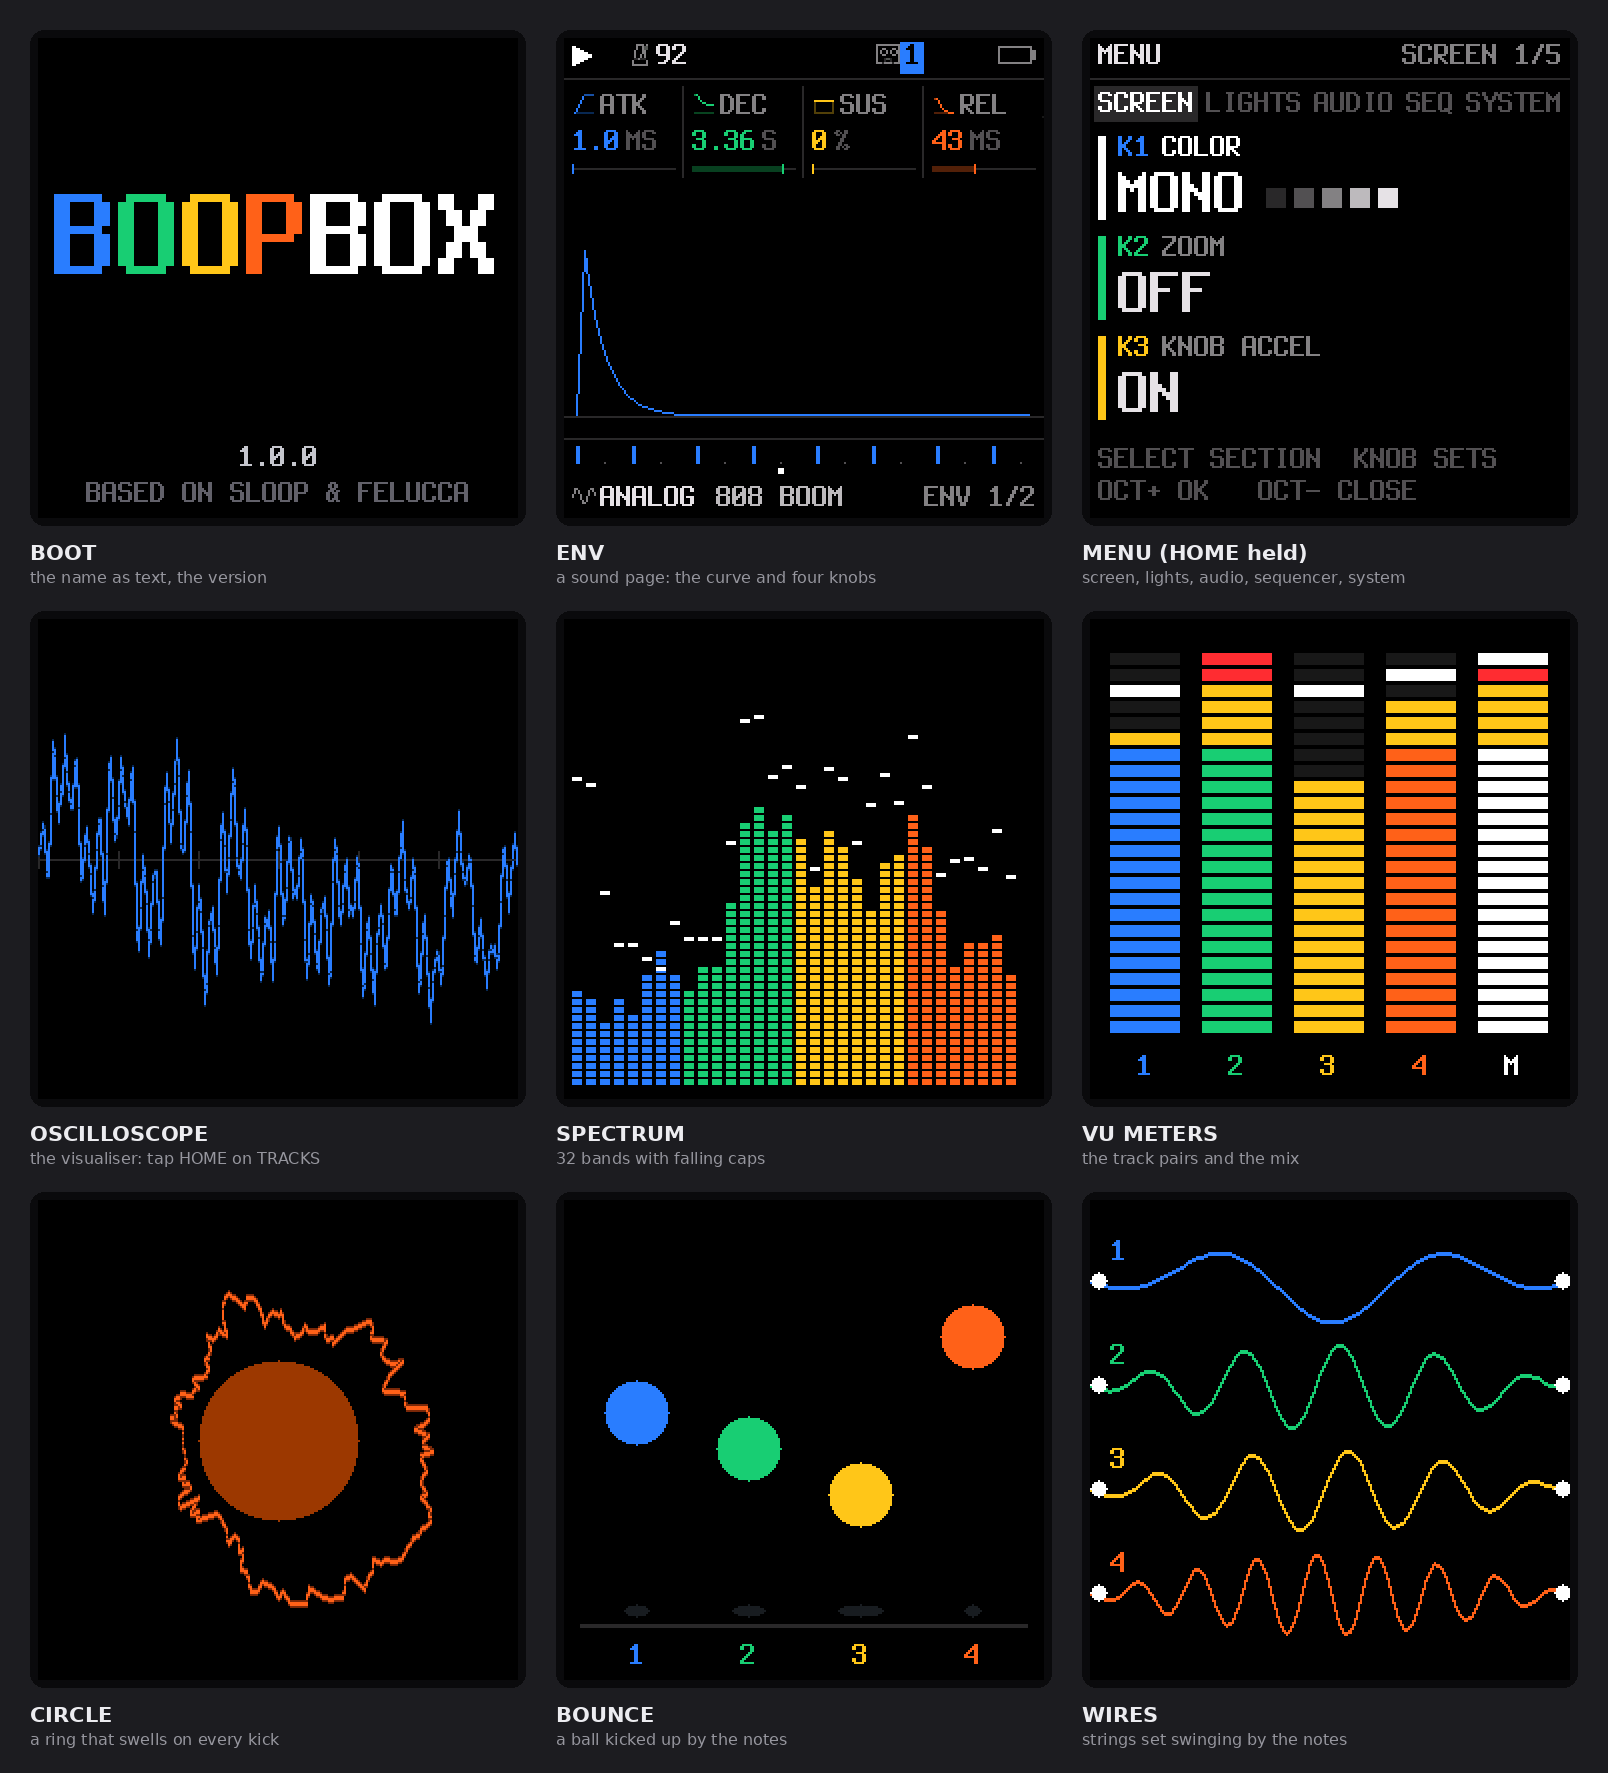
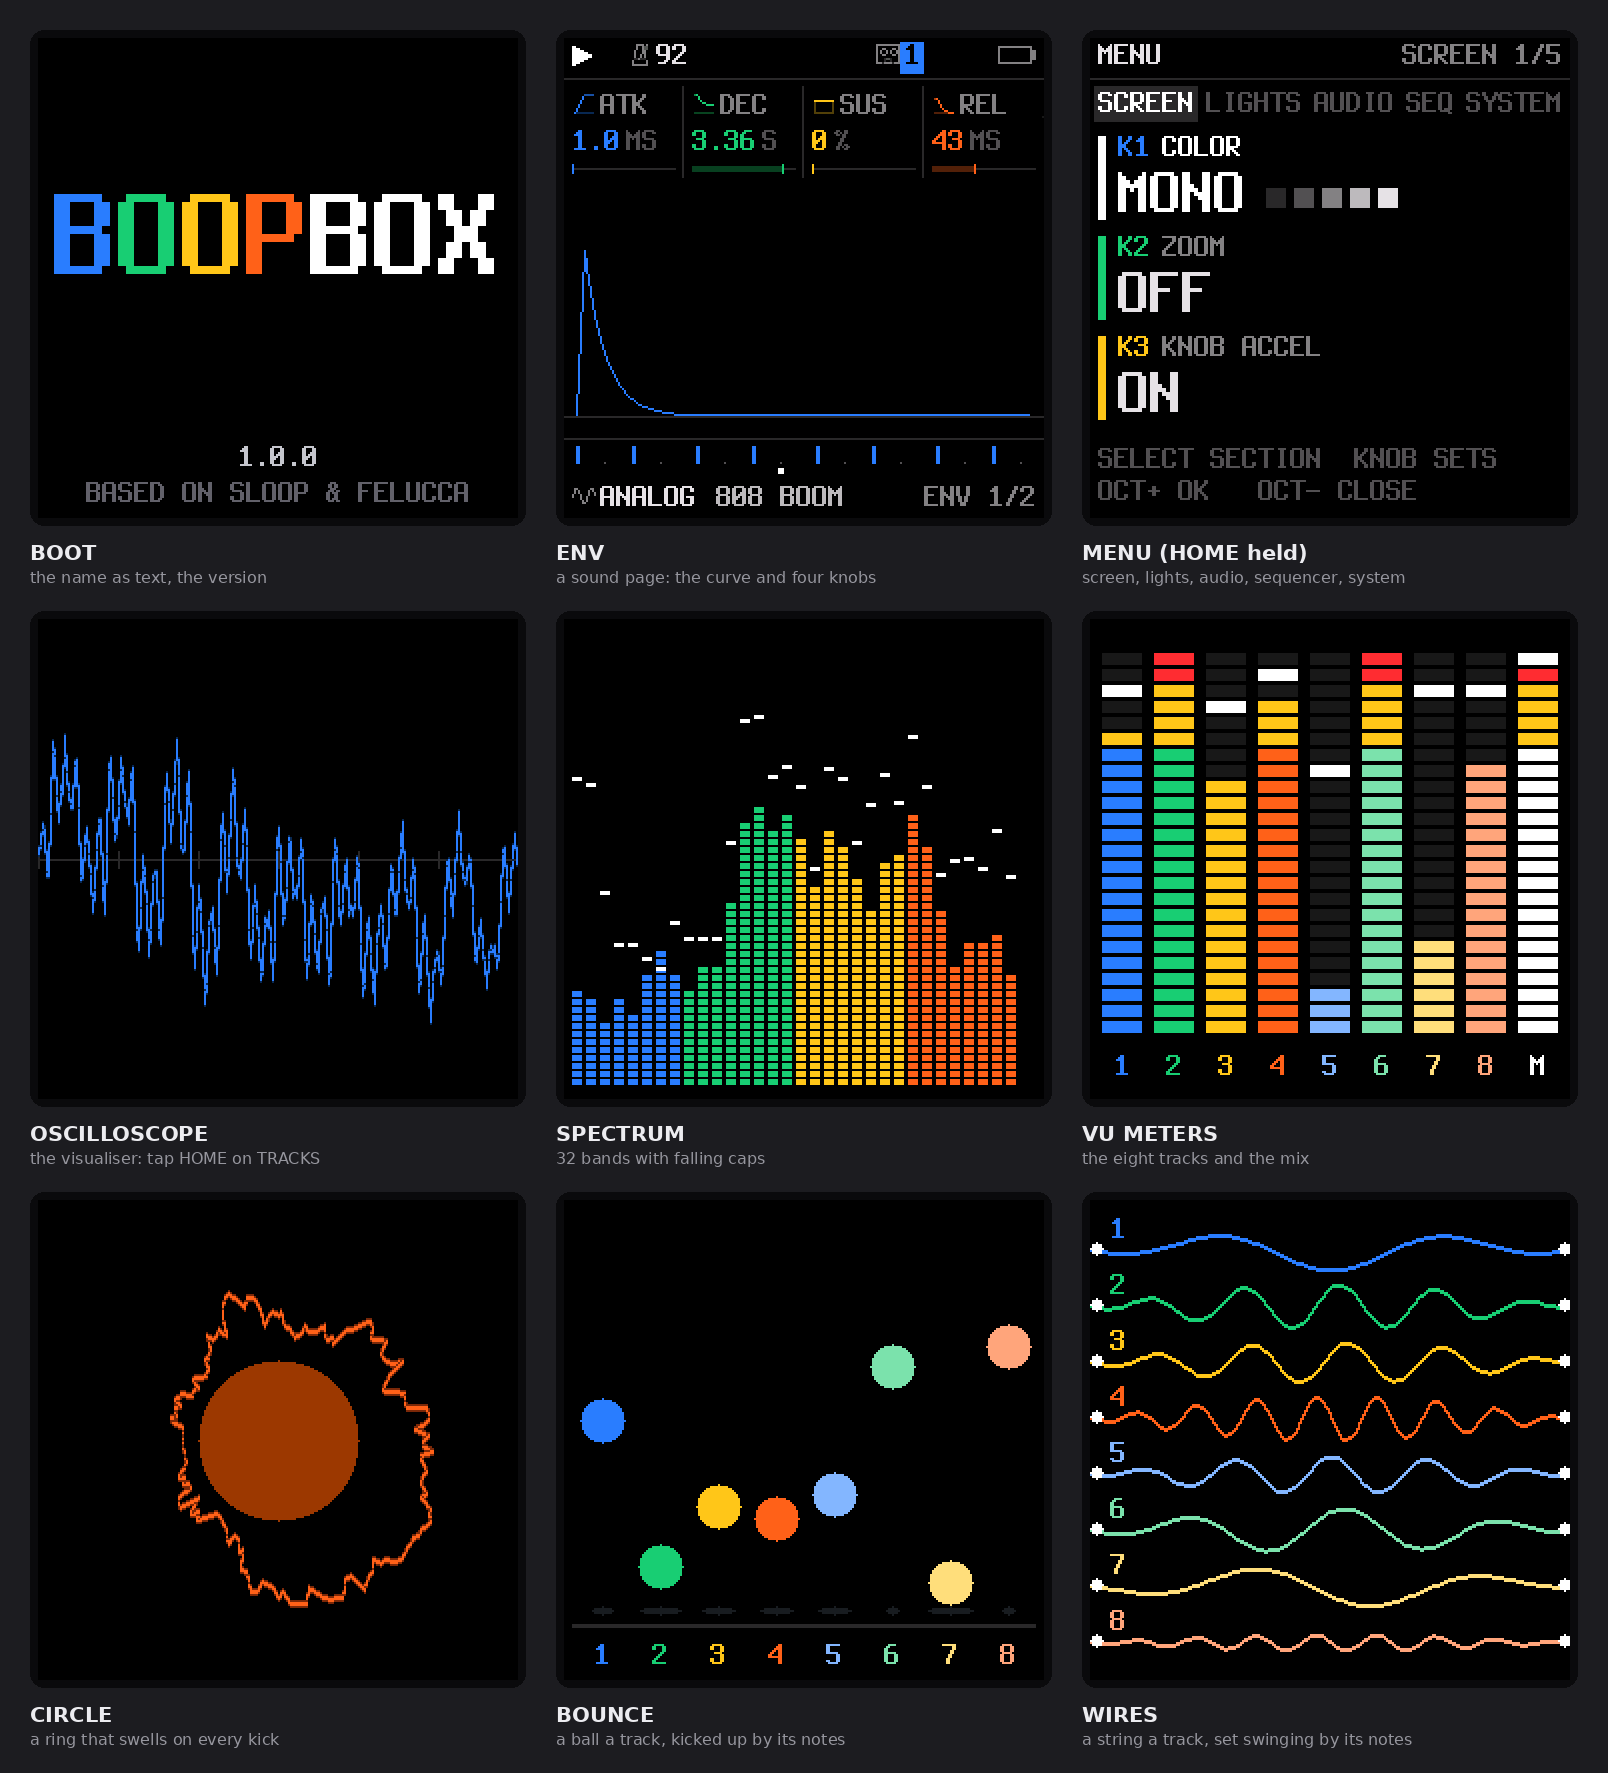
Visualiser: VU METERS, BOUNCE and WIRES show the eight tracks
They showed four, each a pair of tracks (1 + 5 .. 4 + 8) labelled 1..4.
Now each track has its own meter, ball and string in its own colour
(5..8 in their shades), labelled 1..8; VU METERS keeps the mix (M). The
per-track levels and notes that BOOPBOX already took are shared; the
pairs stay for ORBIT, LCD and TAPE (not in the default build). The
unused per-pair flash counter is gone. Real build 580,956 B (16 B less).

The full UI test (tests/ui_pages_test.c) builds all twelve styles again:
the default changed to six in the commit before, which its visualiser
section did not expect (its SELECT-left check also still said SLOOP).
tools/screens_demo.c pins the six of the build. Screenshots and docs
follow.

Claude-Session: https://claude.ai/code/session_01CzC2fYovhao7huLa2sN7ZY

diff --git a/firmware/src/ui_vis.c b/firmware/src/ui_vis.c
@@ -32,14 +32,14 @@ static uint8_t vis_lj[3][256][2];                   /* Lissajous: the last three
 static struct {
     int32_t scale, ljscale, peak;                   /* auto-scales (smoothed peaks), this frame's peak */
     int16_t bar[32], cap[32], capv[32];             /* spectrum: bars, caps and their fall speed (0..1000) */
-    int16_t vu[5], pk[5], pkt[5];                   /* VU: tracks + master, peak holds */
+    int16_t vu[NTRK + 1], pk[NTRK + 1], pkt[NTRK + 1];   /* VU METERS: the eight tracks and the master (NTRK), peak holds */
     int16_t lvl[5];                                 /* the tracks' levels (0..1000) this frame, the master */
-    int16_t tlv[NTRK], tvu[NTRK];                   /* BOOPBOX: each track's own level, and as shown (falling) */
-    uint8_t tfl[NTRK];                              /* BOOPBOX: frames since each track's note started */
-    int16_t bh[4], bv[4];                           /* BOUNCE: height and speed (1/256 units) */
-    uint8_t flash[4], kick;                         /* frames since a note started (0 = none) / a kick, fading */
-    int16_t wamp[4];                                /* WIRES: each string's swing (0..1000) */
-    uint8_t wn[4];                                  /* its wave count (from the note) */
+    int16_t tlv[NTRK], tvu[NTRK];                   /* each track's own level (0..1000), and as BOOPBOX shows it */
+    uint8_t tfl[NTRK];                              /* frames since each track's note started (0 = none) */
+    int16_t bh[NTRK], bv[NTRK];                     /* BOUNCE: each track's ball, height and speed (1/256 units) */
+    uint8_t kick;                                   /* a kick, fading */
+    int16_t wamp[NTRK];                             /* WIRES: each track's string, its swing (0..1000) */
+    uint8_t wn[NTRK];                               /* its wave count (from the note) */
     uint32_t free_q8, last_ms, wph;                 /* beats (1/256) when stopped; the wires' phase */
     uint8_t lj_n;
 } vs;
@@ -254,21 +254,20 @@ static void vis_update(void)
         vs.kick = 255;
     }
     fm1_irq_on();
-    for (i = 0; i < NTRK; i++) {
-        vs.tlv[i] = (int16_t)(trk_level(i) && !trk[i].p[P_MUTE] ? vis_lvl(p8[i]) : 0);
-        vs.tfl[i] = (uint8_t)((hit >> i) & 1u ? 8u : vs.tfl[i] ? vs.tfl[i] - 1u : 0u);
-    }
-    for (i = 0; i < 4u; i++) {
-        int32_t v = (trk_level(i) && !trk[i].p[P_MUTE]) || (trk_level(i + 4u) && !trk[i + 4u].p[P_MUTE]) ? vis_lvl(pk[i]) : 0;
-        vs.lvl[i] = (int16_t)v;                     /* (as the TRACKS meters) */
-        if (((hit | hit >> 4) >> i) & 1u) {
-            vs.flash[i] = 8;
-            vs.wn[i] = (uint8_t)(2u + vis_note[(hit >> i) & 1u ? i : i + 4u] % 12u / 2u);
+    for (i = 0; i < 4u; i++)                        /* (the four colours' pairs, as the TRACKS meters: ORBIT, LCD, TAPE) */
+        vs.lvl[i] = (int16_t)((trk_level(i) && !trk[i].p[P_MUTE]) || (trk_level(i + 4u) && !trk[i + 4u].p[P_MUTE]) ?
+                              vis_lvl(pk[i]) : 0);
+    for (i = 0; i < NTRK; i++) {                    /* each track on its own: VU METERS, BOUNCE, WIRES, BOOPBOX */
+        int32_t v = trk_level(i) && !trk[i].p[P_MUTE] ? vis_lvl(p8[i]) : 0;
+        vs.tlv[i] = (int16_t)v;
+        if ((hit >> i) & 1u) {
+            vs.tfl[i] = 8;
+            vs.wn[i] = (uint8_t)(2u + vis_note[i] % 12u / 2u);
             if (vs.wamp[i] < 1000) vs.wamp[i] = 1000;
             if (vs.bh[i] < 8 * 256)                 /* BOUNCE: a kick, unless already high up */
-                vs.bv[i] = (int16_t)(3 * 256 + 51 * (int32_t)i);
-        } else if (vs.flash[i]) {
-            vs.flash[i]--;
+                vs.bv[i] = (int16_t)(3 * 256 + 26 * (int32_t)i);
+        } else if (vs.tfl[i]) {
+            vs.tfl[i]--;
         }
         vs.wamp[i] = (int16_t)(vs.wamp[i] > v ? vs.wamp[i] - (vs.wamp[i] - v) / 6 - 4 : v);
         if (vs.wamp[i] < 0) vs.wamp[i] = 0;
@@ -346,8 +345,8 @@ static void vis_update(void)
         break;
     }
     case 4:                                         /* VU: fall 3 % a frame, peaks held a second */
-        for (i = 0; i < 5u && VIS_HAS(4); i++) {
-            int32_t v = vs.lvl[i];
+        for (i = 0; i <= NTRK && VIS_HAS(4); i++) {
+            int32_t v = i < NTRK ? vs.tlv[i] : vs.lvl[4];
             vs.vu[i] = (int16_t)(v > vs.vu[i] - 30 ? v : vs.vu[i] - 30);
             if (v >= vs.pk[i]) {
                 vs.pk[i] = (int16_t)v;
@@ -361,7 +360,7 @@ static void vis_update(void)
         for (i = 0; i < NTRK && VIS_HAS(11); i++)
             vs.tvu[i] = (int16_t)(vs.tlv[i] > vs.tvu[i] - 30 ? vs.tlv[i] : vs.tvu[i] - 30);
         if (VIS_HAS(11))
-            vs.vu[4] = (int16_t)(vs.lvl[4] > vs.vu[4] - 30 ? vs.lvl[4] : vs.vu[4] - 30);
+            vs.vu[NTRK] = (int16_t)(vs.lvl[4] > vs.vu[NTRK] - 30 ? vs.lvl[4] : vs.vu[NTRK] - 30);
         break;
     default:
         break;
@@ -445,21 +444,21 @@ static void vis_lissajous(void)
     cv_text(6, 112, &FONT_S, "L", C_DIM);
     cv_text(226, 112, &FONT_S, "R", C_DIM);
 }
-static void vis_meters(void)
+static void vis_meters(void)                        /* the eight tracks, each in its colour, and the master (M) */
 {
     uint32_t i, k;
-    for (i = 0; i < 5u; i++) {
-        int32_t x0 = 10 + (int32_t)i * 46, on = vs.vu[i] * 24 / 1000, pk = vs.pk[i] * 24 / 1000;
-        uint16_t c = i < 4u ? UI_COL[i] : C_WHITE;
-        char lab[2] = {(char)(i < 4u ? '1' + i : 'M'), 0};
+    for (i = 0; i <= NTRK; i++) {
+        int32_t x0 = 6 + (int32_t)i * 26, on = vs.vu[i] * 24 / 1000, pk = vs.pk[i] * 24 / 1000;
+        uint16_t c = i < NTRK ? UI_COL[i] : C_WHITE;
+        char lab[2] = {(char)(i < NTRK ? '1' + i : 'M'), 0};
         for (k = 0; k < 24u; k++) {
             int32_t y = 206 - (int32_t)k * 8;
             uint16_t col = (int32_t)k < on ? (k < 18u ? c : k < 22u ? UI_COL[2] : RGB(255, 44, 52)) : UI_G1;
             if ((int32_t)k == pk && pk > 0)
                 col = C_WHITE;
-            cv_rect(x0, y - 5, 35, 6, col);
+            cv_rect(x0, y - 5, 20, 6, col);
         }
-        cv_text(x0 + 13, 216, &FONT_S, lab, c);
+        cv_text(x0 + 6, 216, &FONT_S, lab, c);
     }
 }
 static void vis_ring(void)
@@ -533,20 +532,18 @@ static void vis_lcd(void)
             cv_rect(18 + (int32_t)k * 15, 186 + (int32_t)i * 12, 13, 9,
                     (int32_t)k < vs.lvl[i] * 14 / 1000 + (vs.lvl[i] > 0) ? UI_COL[i] : ui_gray(RGB(30, 30, 34)));
 }
-static void vis_bounce(void)
+static void vis_bounce(void)                        /* a ball a track, kicked up by its notes */
 {
     uint32_t i;
-    for (i = 0; i < 4u; i++) {
-        int32_t x = 36 + (int32_t)i * 56, h = vs.bh[i], y = 196 - h * 45 / 2560, sh = 16 - h / 512;
-        int32_t sq = h < 512 && vs.bv[i] < 0 ? 4 : 0;   /* squashed as it lands */
-        vis_ellipse(x, 205, sh < 4 ? 4 : sh, 3, ui_gray(RGB(30, 30, 34)));
-        vis_ellipse(x, y, 16 + sq, 16 - sq, UI_COL[i]);
-        {
-            char lab[2] = {(char)('1' + i), 0};
-            cv_text(x - 4, 220, &FONT_S, lab, UI_COL[i]);
-        }
+    for (i = 0; i < NTRK; i++) {
+        int32_t x = 19 + (int32_t)i * 29, h = vs.bh[i], y = 200 - h * 45 / 2560, sh = 11 - h / 768;
+        int32_t sq = h < 512 && vs.bv[i] < 0 ? 3 : 0;   /* squashed as it lands */
+        char lab[2] = {(char)('1' + i), 0};
+        vis_ellipse(x, 205, sh < 3 ? 3 : sh, 2, ui_gray(RGB(30, 30, 34)));
+        vis_ellipse(x, y, 11 + sq, 11 - sq, UI_COL[i]);
+        cv_text(x - 4, 220, &FONT_S, lab, UI_COL[i]);
     }
-    cv_rect(8, 212, 224, 2, C_LINE);
+    cv_rect(4, 212, 232, 2, C_LINE);
 }
 static void vis_orbit(void)
 {
@@ -566,23 +563,23 @@ static void vis_orbit(void)
     }
     vis_ellipse(120, 120, rs, rs, C_WHITE);
 }
-static void vis_wires(void)
+static void vis_wires(void)                         /* a string a track, set swinging by its notes */
 {
     uint32_t i, x;
-    for (i = 0; i < 4u; i++) {
-        int32_t y0 = 40 + (int32_t)i * 52, amp = vs.wamp[i] * 22 / 1000, py = y0;
+    for (i = 0; i < NTRK; i++) {
+        int32_t y0 = 24 + (int32_t)i * 28, amp = vs.wamp[i] * 12 / 1000, py = y0;
         char lab[2] = {(char)('1' + i), 0};
         for (x = 0; x < 240u; x += 2u) {           /* a standing wave: the string's shape x its swing */
-            uint32_t a = x * 512u / 240u, cyc = i == 3u ? 8u : vs.wn[i] ? vs.wn[i] : 2u;   /* sin(pi x / L) */
-            int32_t env = isin(a), wv = isin(x * cyc * 1024u / 240u + vs.wph * (3u + i));
+            uint32_t a = x * 512u / 240u, cyc = is_drum(&trk[i]) ? 8u : vs.wn[i] ? vs.wn[i] : 2u;   /* sin(pi x / L) */
+            int32_t env = isin(a), wv = isin(x * cyc * 1024u / 240u + vs.wph * (3u + i % 4u));
             int32_t y = y0 - (((env * wv) >> 15) * amp >> 15);
             if (x)
                 vis_thick((int32_t)x - 2, py, (int32_t)x, y, UI_COL[i]);
             py = y;
         }
-        vis_ellipse(4, y0, 4, 4, C_WHITE);
-        vis_ellipse(236, y0, 4, 4, C_WHITE);
-        cv_text(10, y0 - 22, &FONT_S, lab, UI_COL[i]);
+        vis_ellipse(3, y0, 3, 3, C_WHITE);
+        vis_ellipse(237, y0, 3, 3, C_WHITE);
+        cv_text(10, y0 - 17, &FONT_S, lab, UI_COL[i]);
     }
 }
 /* a rounded rectangle, filled (the corners: quarter discs) */
@@ -604,7 +601,7 @@ static void vis_boopbox(void)
     uint32_t bq = vis_beat_q8(), ph = bq & 255u, i;
     int32_t hop = ph < 64u ? (int32_t)(64u - ph) * 4 / 64 : 0;     /* down 4 px on the beat, back over a 16th */
     int32_t y = 8 + hop, x, sc = vs.scale > 1600 ? vs.scale : 1600;
-    int32_t m = vs.vu[4], rs = 22 + m * 5 / 1000, rc = 7 + m * 4 / 1000 + vs.kick * 4 / 255;
+    int32_t m = vs.vu[NTRK], rs = 22 + m * 5 / 1000, rc = 7 + m * 4 / 1000 + vs.kick * 4 / 255;
     /* the handle, then the body: white, the inside black */
     vis_rrect(72, y + 26, 168, y + 80, 18, C_WHITE);
     vis_rrect(82, y + 36, 158, y + 80, 9, C_BLACK);

diff --git a/tests/ui_pages_test.c b/tests/ui_pages_test.c
@@ -19,6 +19,9 @@
  *   DRUMS   the grid: sound / step / hit / level knobs, GRID <-> KIT
  * then 20000 frames of random use: every draw stays on the screen. */
 #define FELUCCA_ARRANGER 1
+#ifndef FELUCCA_VIS_STYLES
+#define FELUCCA_VIS_STYLES 0xFFFu                   /* every visualiser style (the build has six: tests/vis_styles_test.c) */
+#endif
 #define main hostsim_main
 #include "hostsim.c"
 #undef main
@@ -1469,7 +1472,7 @@ int main(int argc, char **argv)
         }
         check(vis_style == 0u, "visualiser: SELECT goes round (12 -> 1)");
         encs[panel.enc[EN_SELECT]] = -1; frames(2);
-        check(vis_style == 11u && (lights_word() >> 17 & 15u) == 11u, "visualiser: SELECT left: SLOOP (12), kept in the settings word");
+        check(vis_style == 11u && (lights_word() >> 17 & 15u) == 11u, "visualiser: SELECT left: BOOPBOX (12), kept in the settings word");
         lights_from_word(lights_word());
         check(vis_style == 11u, "visualiser: the style read back");
         { int16_t bpm = song.g[G_BPM], lv = trk[0].p[P_LEVEL];

diff --git a/tools/make_screens.py b/tools/make_screens.py
@@ -36,10 +36,10 @@ MORE = [
     ("menu", "MENU (HOME held)", "screen, lights, audio, sequencer, system"),
     ("vis-scope", "OSCILLOSCOPE", "the visualiser: tap HOME on TRACKS"),
     ("vis-spectrum", "SPECTRUM", "32 bands with falling caps"),
-    ("vis-vu", "VU METERS", "the track pairs and the mix"),
+    ("vis-vu", "VU METERS", "the eight tracks and the mix"),
     ("vis-circle", "CIRCLE", "a ring that swells on every kick"),
-    ("vis-bounce", "BOUNCE", "a ball kicked up by the notes"),
-    ("vis-wires", "WIRES", "strings set swinging by the notes"),
+    ("vis-bounce", "BOUNCE", "a ball a track, kicked up by its notes"),
+    ("vis-wires", "WIRES", "a string a track, set swinging by its notes"),
 ]
 
 BG, BEZEL, TITLE, SUB = (28, 28, 32), (10, 10, 12), (236, 236, 240), (150, 150, 158)

diff --git a/tools/screens_demo.c b/tools/screens_demo.c
@@ -4,6 +4,7 @@
  * one 240 x 240 PPM per screen into the directory given.
  *   cc -O2 -w -Ibuild/gen -Ifirmware/src -Ifirmware/hal -Itests tools/screens_demo.c -lm && ./a.out OUTDIR */
 #define UI_PAGES_HARNESS_ONLY 1
+#define FELUCCA_VIS_STYLES 0x533u                   /* the build's six styles (ui_vis.c), not the test's twelve */
 #include "ui_pages_test.c"
 
 static void open_page(uint32_t fam, const char *title)     /* the button tapped until its page of that title shows */

diff --git a/GUIDE.md b/GUIDE.md
@@ -929,17 +929,17 @@ On the TRACKS screen, **tap HOME**: the whole screen becomes a visualiser of wha
 | 2 | **SPECTRUM** | yes | 32 bands with falling caps |
 | 3 | **SPECTROGRAM** | — | the spectrum scrolling down, black → blue → green → yellow → white |
 | 4 | **LISSAJOUS** | — | the stereo image: the wider the cloud, the wider the sound |
-| 5 | **VU METERS** | yes | four meters and the mix, with peak holds |
+| 5 | **VU METERS** | yes | the eight tracks in their colours and the mix, with peak holds |
 | 6 | **CIRCLE** | yes | the wave round a ring that swells on every kick |
 | 7 | **TAPE** | — | two reels turning with the song, the level, the bar and the tempo |
 | 8 | **LCD** | — | the tempo in seven-segment digits, bar and beat, four meters |
-| 9 | **BOUNCE** | yes | four balls, kicked up by their tracks' notes |
+| 9 | **BOUNCE** | yes | a ball per track, kicked up by its notes |
 | 10 | **ORBIT** | — | four planets turning in 1, 2, 4 and 8 beats round a sun that pulses with the mix |
-| 11 | **WIRES** | yes | four strings, set swinging by their tracks' notes |
+| 11 | **WIRES** | yes | a string per track, set swinging by its notes |
 | 12 | **BOOPBOX** | — | the logo alive: its eight bars are the tracks, the speakers pulse with the mix, the box hops on the beat |
 
-The meters, balls, planets and strings are four (eight tracks: each one is a pair, 1 + 5, 2 + 6, 3 + 7, 4 + 8, in the pair's colour); BOOPBOX
-shows each of the eight on its own.
+VU METERS, BOUNCE, WIRES and BOOPBOX show each of the eight tracks on its own; ORBIT, LCD and TAPE (not built in) show
+four, each a pair of tracks (1 + 5 .. 4 + 8).
 
 The visualiser sees the mix **as if MASTER were all the way up**: with MASTER turned down, even to 0, it still moves at full size. It costs the sound nothing.
 

diff --git a/BOOPBOX.md b/BOOPBOX.md
@@ -471,13 +471,13 @@ On the TRACKS screen, tap **HOME**: the whole screen becomes a visualiser of wha
 | 2 | **SPECTRUM** (built in) | 32 bands, lows to highs, with caps that fall |
 | 3 | **SPECTROGRAM** | the spectrum scrolling down, black → blue → green → yellow → white |
 | 4 | **LISSAJOUS** | the stereo image: the wider the cloud, the wider the sound |
-| 5 | **VU METERS** (built in) | four meters (the track pairs 1 + 5 .. 4 + 8) and the mix, with peak holds |
+| 5 | **VU METERS** (built in) | the eight tracks in their colours and the mix, with peak holds |
 | 6 | **CIRCLE** (built in) | the wave round a ring that swells on every kick |
 | 7 | **TAPE** | two reels turning with the song, the level on the head, the bar and the tempo |
 | 8 | **LCD** | the tempo in seven-segment digits, the bar and beat, four track meters |
-| 9 | **BOUNCE** (built in) | four balls (the track pairs), kicked up by their notes |
+| 9 | **BOUNCE** (built in) | a ball per track, kicked up by its notes |
 | 10 | **ORBIT** | four planets turning in 1, 2, 4 and 8 beats, sized by their track, round a sun that pulses with the mix |
-| 11 | **WIRES** (built in) | four strings (the track pairs), set swinging by their notes |
+| 11 | **WIRES** (built in) | a string per track, set swinging by its notes |
 | 12 | **BOOPBOX** | the logo alive: its eight bars are the tracks (lit to their level, flashing on a note), the speakers pulse with the mix, the box hops on the beat |
 
 It sees the mix as if **MASTER** were all the way up, so the picture does not follow the volume knob: with MASTER turned down, even to 0, it moves as at full volume. It only reads what the audio already leaves for the screen (that mix, the tracks' levels and notes, the clock): it costs the sound nothing.
